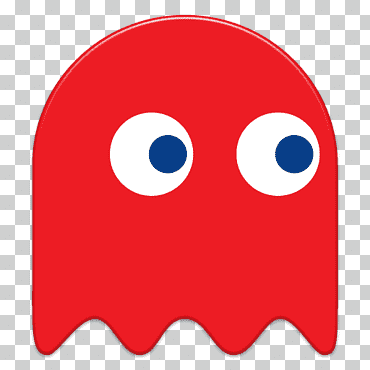
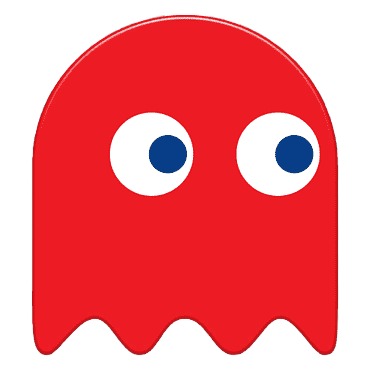
movimiento ghosts

Changed region(s): [[0.0, 0.0, 1.0, 1.0], [0.7432, 0.1189, 0.773, 0.1486]]

diff --git a/script.js b/script.js
@@ -1,26 +1,63 @@
-document.addEventListener('DOMContentLoaded' , () => {
+document.addEventListener('DOMContentLoaded', () => {
     const grid = document.querySelector(".grid");
     const cells = Array.from(grid.querySelectorAll('div'));
     const width = 10;
     let pacmanIndex = 11;
 
-    class Ghost{
+    class Ghost {
 
-        constructor(name, startIndex, className, speer = 500){
+        constructor(name, startIndex, className, speed = 500) {
             this.name = name;
             this.currentIndex = startIndex;
             this.className = className;
-            this.speed = this.speed;
+            this.speed = speed;
             this.timerId = null;
             this.directions = [-1, 1, -width, width];
         }
 
+        draw() {
+            cells[this.currentIndex].classList.add("ghost", this.className);
+        }
+        erase() {
+            cells[this.currentIndex].classList.remove("ghost", this.className);
+
+        }
+
+
+        move(){
+            const moveGhost = () => {
+            const directions = this.directions[Math.floor(Math.random() * this.directions.length)];
+            const nextIndex = this.currentIndex + directions;
+ 
+            if(
+                !cells[nextIndex].classList.contains('wall') &&
+                !cells[nextIndex].classList.contains('ghost')
+            ) {
+                this.erase();
+                this.currentIndex = nextIndex;
+                this.draw();
+            } else {
+                moveGhost(); // intenta moverse si choca
+            }
+            };
+ 
+            this.timerId = setInterval(moveGhost, this.speed);
+        }
+
     }
 
-
-    const blinky = new Ghost("blinky", 35, 'red', 500);
-    const pinky = new Ghost("pinky", 36, 'pink', 600);
+    const blinky = new Ghost("blinky", 40, 'red', 500);
+    const pinky = new Ghost("pinky", 67, 'pink', 600);
     const ghosts = [blinky, pinky];
+
+    ghosts.forEach(ghost => {
+
+        ghost.draw();
+        ghost.move();
+    })
+
+
+
 
 
 })

diff --git a/styles.css b/styles.css
@@ -52,5 +52,5 @@ h1 {
   background-size: contain;
   background-repeat: no-repeat;
   background-position: center;
-  background-image: url(/img/ghost.png);
+  background-image: url(/img/OIP.jpg);
 }/*# sourceMappingURL=styles.css.map */

diff --git a/styles.scss b/styles.scss
@@ -55,5 +55,6 @@ h1{
     background-size: contain;
     background-repeat: no-repeat;
     background-position: center;
-    background-image: url(/img/ghost.png);
+
+    background-image: url(/img/OIP.jpg);
 }
